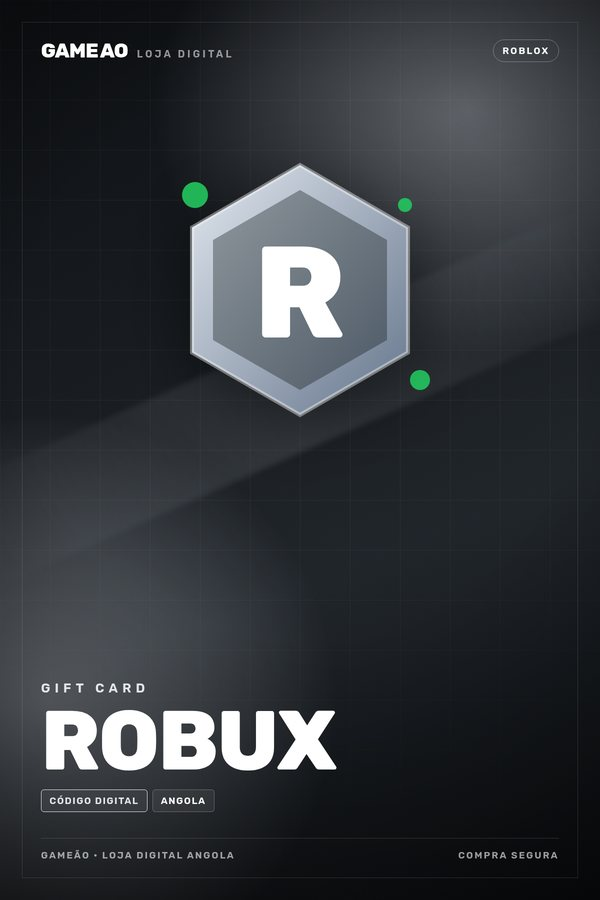
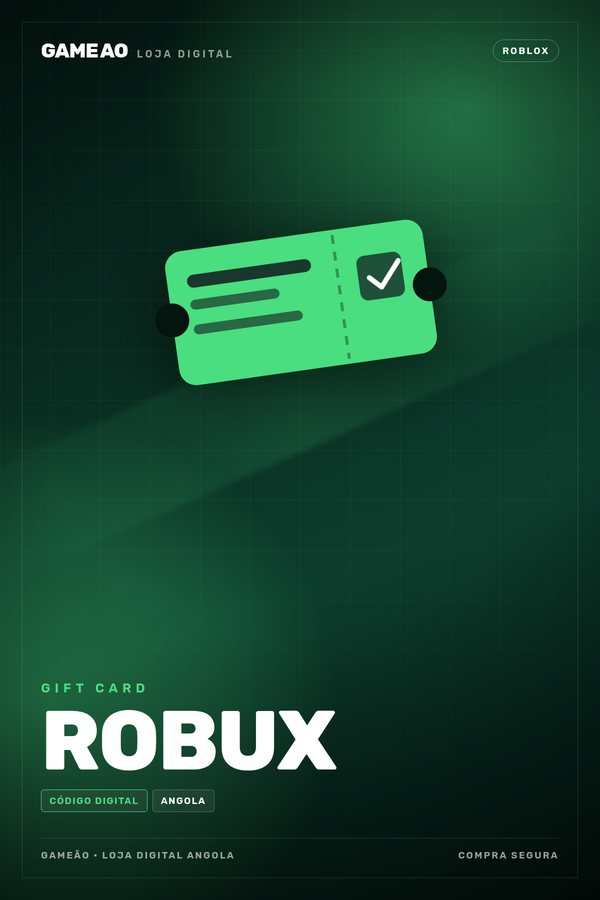
Diferencia a arte do Robux Gift Card da moeda Robux

diff --git a/scripts/product-art/generate.py b/scripts/product-art/generate.py
@@ -373,7 +373,7 @@ CATALOG = [
     ("jogos-digital-ps4ps5", "royal", "gamepad", "MÍDIA DIGITAL", ["JOGOS", "PS4 · PS5"], "", "ENTREGA NA CONTA"),
     ("canva-pro-30-dias", "canva", "canva", "DESIGN PRO", ["CANVA PRO"], "", "30 DIAS"),
     ("robux", "steel", "robux", "MOEDAS ROBLOX", ["ROBUX"], "", "ENTREGA RÁPIDA"),
-    ("robux-gif-card", "steel", "robux", "GIFT CARD", ["ROBUX"], "", "CÓDIGO DIGITAL"),
+    ("robux-gif-card", "jade", "ticket", "GIFT CARD", ["ROBUX"], "", "CÓDIGO DIGITAL"),
     ("luvinha-gamer", "amber", "glove", "ACESSÓRIO GAMER", ["LUVINHA"], "", "ANTIDERRAPANTE"),
     ("contas-free-fire-blue-lock", "violet", "diamonds", "CONTAS FREE FIRE", ["BLUE LOCK"], "", "CONTA PREMIUM"),
 ]
